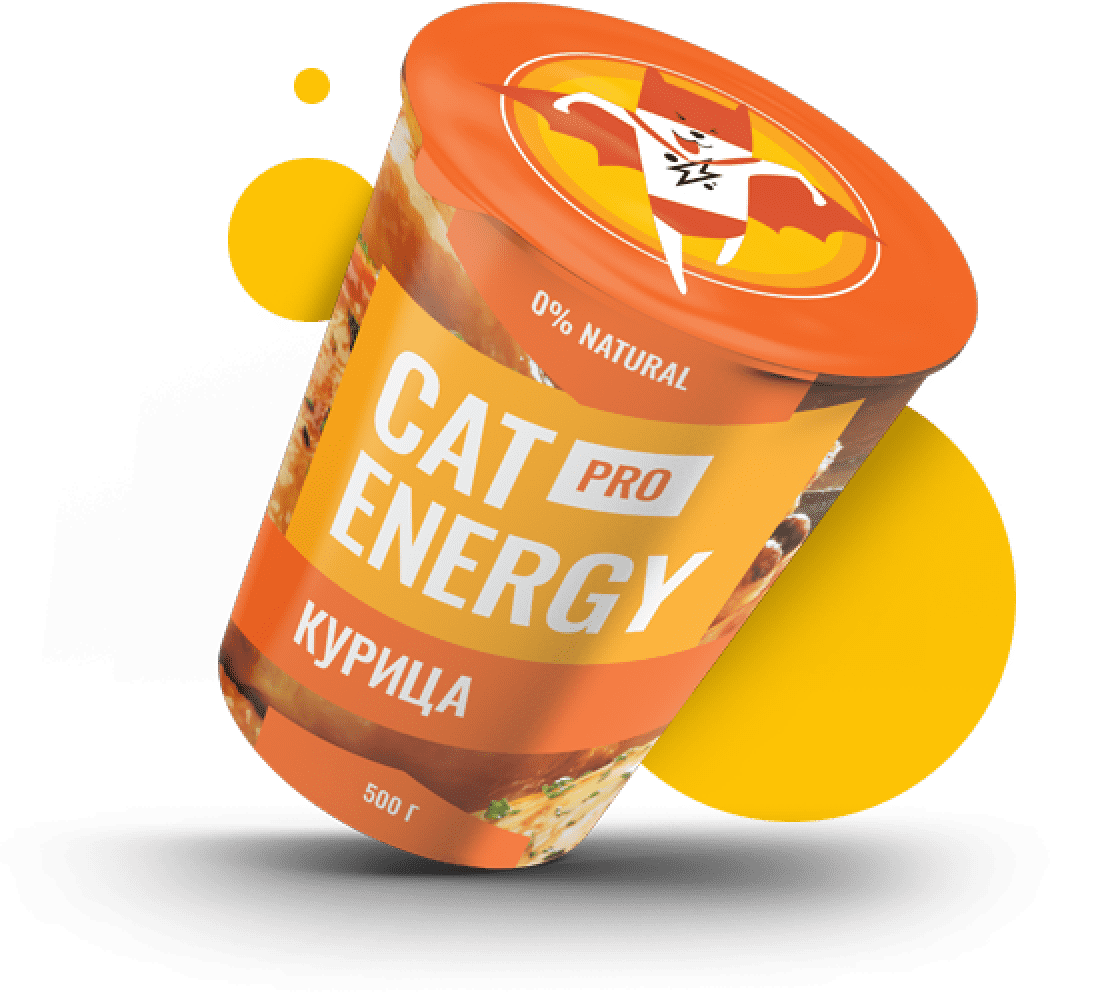
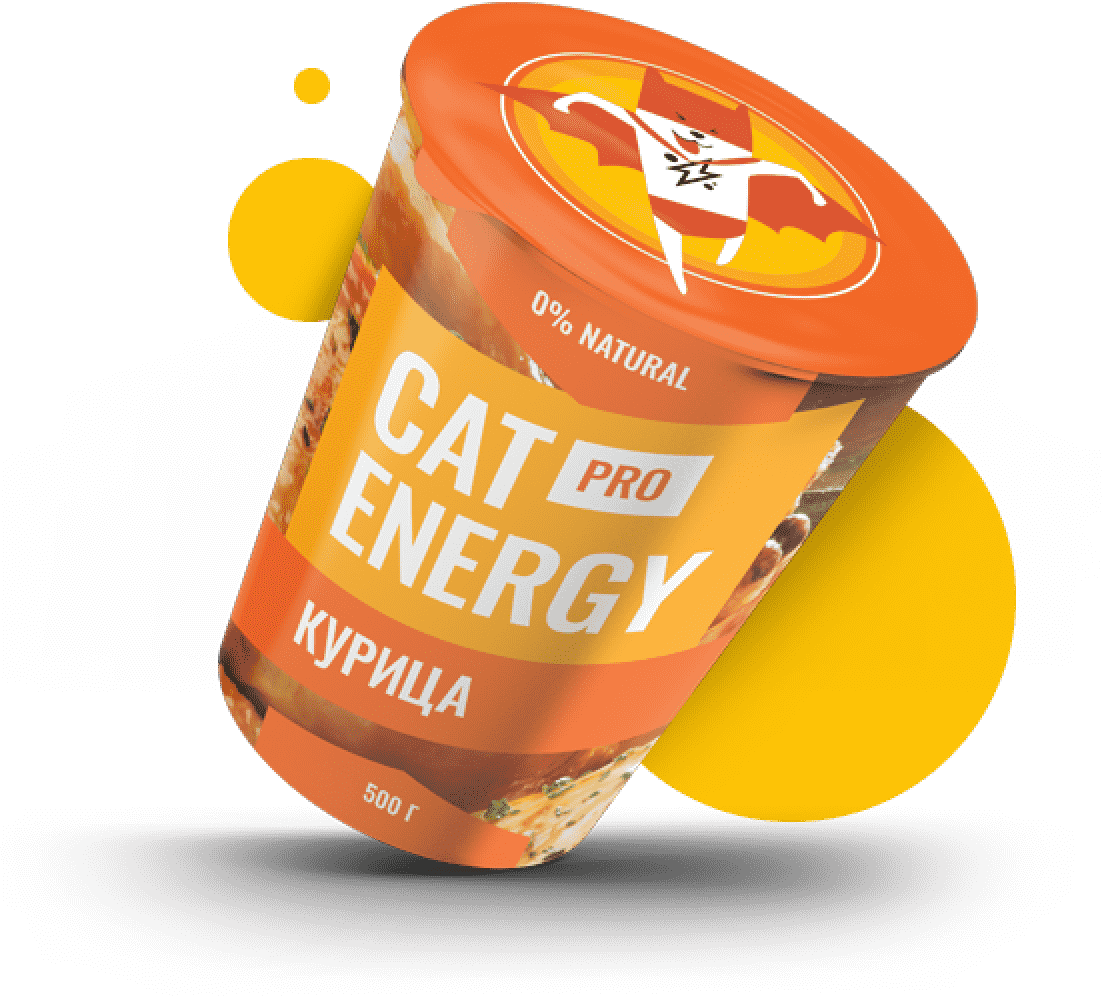
Оптимизация графики на главной странице

diff --git a/source/index.html b/source/index.html
@@ -20,8 +20,8 @@
       </a>
 
       <a class="page-header__logo-text logo" href="index.html">
-        <svg width="101" height="18" fill="none" xmlns="http://www.w3.org/2000/svg">
-          <path d="M1.26 16.54A6.86 6.86 0 010 12.24v-6.4C-.1 4.3.3 2.77 1.19 1.47 2.05.46 3.39 0 5.37 0 7.35 0 8.61.46 9.4 1.3a5.42 5.42 0 011.19 3.78v1.54H6.72V4.85a3.7 3.7 0 00-.24-1.54 1.16 1.16 0 00-1.1-.62c-.56 0-.95.16-1.11.54a4.85 4.85 0 00-.24 1.7v8.22c-.04.56.07 1.12.32 1.62.15.38.55.54 1.1.54.56 0 .87-.16 1.03-.54.18-.52.26-1.07.24-1.62v-1.84h3.87v1.54a5.77 5.77 0 01-1.19 3.84c-.79.93-2.13 1.39-4.03 1.39-1.9-.08-3.32-.54-4.1-1.54zM15.25.23h4.5l3.33 17.54h-3.64l-.63-3.7h-2.6l-.64 3.7h-3.72L15.25.23zm3.24 11.54l-.95-6.85-.94 6.85h1.9zM25.84 3.15h-2.68V.23h9.4v2.85h-2.69v14.69h-4.03V3.15zM39.75.23h6.96v1.85h-4.5v5.77h3.63v1.77H42.2v6.46h4.5v1.77h-7.03V.23h.08zM48.76.23h1.74l5.14 11.62V.23h2.05v17.54h-1.58l-5.21-12v12h-2.14V.23zM60.06.23h6.96v1.85h-4.5v5.77h3.63v1.77H62.5v6.46h4.5v1.77h-6.95V.23zM69.07.23h3.64c1.43-.1 2.85.28 4.03 1.08C77.6 2 78 3.23 78 4.85c0 2.23-.7 3.61-2.21 4.07l2.53 8.77h-2.45L73.5 9.46h-1.98v8.23H69V.23h.08zm3.48 7.54c.81.06 1.63-.15 2.3-.62.47-.38.7-1.15.7-2.3a4.85 4.85 0 00-.23-1.7c-.18-.39-.49-.71-.87-.92a3.69 3.69 0 00-1.74-.3h-1.1v5.76h.94v.08zM81.16 16.46a7.61 7.61 0 01-1.1-4.46V6.15c-.02-1.11.11-2.22.4-3.3.26-.81.78-1.51 1.5-2 .88-.51 1.9-.75 2.92-.7 1.66 0 2.84.39 3.55 1.23a5.77 5.77 0 011.11 3.85v.62h-2.37V5.3c0-.65-.05-1.29-.16-1.93-.06-.4-.3-.76-.63-1a2.5 2.5 0 00-1.5-.38 2.42 2.42 0 00-1.58.46 1.75 1.75 0 00-.63 1.23c-.1.69-.16 1.38-.16 2.08v6.54c-.06 1 .1 2 .47 2.92.32.62.95.85 1.9.85a1.96 1.96 0 001.9-.93c.41-.97.6-2.02.55-3.07v-1.23h-2.3V9.08h4.59v8.69h-1.58l-.24-2c-.2.67-.64 1.25-1.22 1.66-.6.4-1.3.6-2.02.57a4.05 4.05 0 01-3.4-1.54zM94.68 11.62L90.8.3h2.37l2.76 8.46L98.63.3H101l-3.87 11.3v6.16h-2.37v-6.15h-.08z" fill="#111"/>
+        <svg width="101" height="18">
+          <use xlink:href="sprite.svg#text-logo"></use>
         </svg>
       </a>
 
@@ -51,7 +51,11 @@
         <p class="promo__slogan">занялся собой? займись котом!</p>
 
         <picture>
-          <source media="(min-width: 1440px)" srcset="img/promo-img-desktop.png 1x, promo-img-desktop@2x.png 2x">
+          <source type="image/webp" media="(min-width: 1440px)" srcset="img/promo-img-desktop.webp 1x, img/promo-img-desktop@2x.webp 2x">
+          <source type="image/webp" media="(min-width: 768px)" srcset="img/promo-img-tablet.webp 1x, img/promo-img-tablet@2x.webp 2x">
+          <source type="image/webp" srcset="img/promo-img-mobile.webp 1x, img/promo-img-mobile@2x.webp 2x">
+
+          <source media="(min-width: 1440px)" srcset="img/promo-img-desktop.png 1x, img/promo-img-desktop@2x.png 2x">
           <source media="(min-width: 768px)" srcset="img/promo-img-tablet.png 1x, img/promo-img-tablet@2x.png 2x">
           <img class="promo__image" src="img/promo-img-mobile.png" srcset="img/promo-img-mobile@2x.png 2x" alt="Cat Energy с курицей" width="280" height="270">
         </picture>
@@ -65,23 +69,35 @@
 
       <section class="program program--margin-bottom program--margin-right">
         <div class="program__title-wrapper">
-          <div class="program__image-wrapper"><img class="program__slim" src="img/cat-slim.svg" width="36" height="50" alt=""></div>
+          <div class="program__image-wrapper">
+            <svg class="program__slim" width="36" height="50">
+              <use xlink:href="sprite.svg#cat-slim"></use>
+            </svg>
+          </div>
           <h3 class="program__title heading heading--h3">похудение</h3>
         </div>
 
         <p class="program__description">Ваш кот весит больше собаки и почти утратил способность лазить по деревьям? Пора на диету! Cat Energy Slim поможет вашему питомцу сбросить лишний вес.</p>
         <a class="program__link" href="catalog.html">каталог slim</a>
-        <svg class="program__svg" width="24" height="12" fill="none" xmlns="http://www.w3.org/2000/svg"><path stroke="#000" stroke-width="2" d="M0 6h18"/><path d="M24 6l-6.75 5.2V.8L24 6z" fill="#000"/></svg>
+        <svg class="program__svg" width="24" height="12">
+          <use xlink:href="sprite.svg#right-arrow"></use>
+        </svg>
       </section>
 
       <section class="program program--padding-right">
         <div class="program__title-wrapper">
-          <div class="program__image-wrapper"><img class="program__fat" src="img/cat-pro.svg" width="67" height="28" alt=""></div>
+          <div class="program__image-wrapper">
+            <svg class="program__fat" width="67" height="28">
+              <use xlink:href="sprite.svg#cat-pro"></use>
+            </svg>
+          </div>
           <h3 class="program__title heading heading--h3">набор массы</h3>
         </div>
         <p class="program__description">Заработать авторитет среди дворовых котов и даже собак? Серия Cat Energy Pro поможет вашему коту нарастить необходимые мышцы!</p>
         <a class="program__link" href="catalog.html">каталог pro</a>
-        <svg class="program__svg" width="24" height="12" fill="none" xmlns="http://www.w3.org/2000/svg"><path stroke="#000" stroke-width="2" d="M0 6h18"/><path d="M24 6l-6.75 5.2V.8L24 6z" fill="#000"/></svg>
+        <svg class="program__svg" width="24" height="12">
+          <use xlink:href="sprite.svg#right-arrow"></use>
+        </svg>
       </section>
     </section>
 
@@ -90,19 +106,35 @@
 
       <ul class="advantages__list">
         <li class="advantages__item advantages__item--first">
-          <div class="advantages__icon"><img src="img/icon-leaf.svg" width="30" height="32" alt=""></div>
+          <div class="advantages__icon">
+            <svg width="30" height="32">
+              <use xlink:href="sprite.svg#icon-leaf"></use>
+            </svg>
+          </div>
           <p class="advantages__desc">Функциональное питание<br> содержит только полезные питательные вещества.</p>
         </li>
         <li class="advantages__item advantages__item--second">
-          <div class="advantages__icon"><img src="img/icon-tub.svg" width="29" height="31" alt=""></div>
+          <div class="advantages__icon">
+            <svg width="29" height="31">
+              <use xlink:href="sprite.svg#icon-tube"></use>
+            </svg>
+          </div>
           <p class="advantages__desc">Выпускается в виде порошка, который нужно лишь залить кипятком и готово.</p>
         </li>
         <li class="advantages__item  advantages__item--third">
-          <div class="advantages__icon"><img src="img/icon-eat.svg" width="25" height="30" alt=""></div>
+          <div class="advantages__icon">
+            <svg width="25" height="30">
+              <use xlink:href="sprite.svg#icon-eat"></use>
+            </svg>
+          </div>
           <p class="advantages__desc">Замените один-два приема обычной еды на наше функциональное питание.</p>
         </li>
         <li class="advantages__item  advantages__item--fourth">
-          <div class="advantages__icon"><img src="img/icon-alarm.svg" width="32" height="33" alt=""></div>
+          <div class="advantages__icon">
+            <svg width="32" height="33">
+              <use xlink:href="sprite.svg#icon-alarm"></use>
+            </svg>
+          </div>
           <p class="advantages__desc">Уже через месяц наслаждайтесь изменениями к лучшему<br> вашего питомца!</p>
         </li>
       </ul>
@@ -137,12 +169,20 @@
         <div class="real-story__chronicle">
           <div class="real-story__start-wrapper">
             <picture>
+              <source type="image/webp" media="(min-width: 1440px)" srcset="img/before-tablet.webp 1x, img/before-tablet@2x.webp 2x">
+              <source type="image/webp" media="(min-width: 768px)" srcset="img/before-tablet.webp 1x, img/before-tablet@2x.webp 2x">
+              <source type="image/webp" srcset="img/before-mobile.webp 1x, img/before-mobile@2x.webp 2x">
+
               <source media="(min-width: 1440px)" srcset="img/before-tablet.png 1x, img/before-tablet@2x.png 2x">
               <source media="(min-width: 768px)" srcset="img/before-tablet.png 1x, img/before-tablet@2x.png 2x">
               <img class="real-story__img real-story__img--before" src="img/before-mobile.png" srcset="img/before-mobile@2x.png 2x" width="280" height="232" alt="Борис до похудения">
             </picture>
 
             <picture>
+              <source type="image/webp" media="(min-width: 1440px)" srcset="img/after-tablet.webp 1x, img/after-tablet@2x.webp 2x">
+              <source type="image/webp" media="(min-width: 768px)" srcset="img/after-tablet.webp 1x, img/after-tablet@2x.webp 2x">
+              <source type="image/webp" srcset="img/after-mobile.webp 1x, img/after-mobile@2x.webp 2x">
+
               <source media="(min-width: 1440px)" srcset="img/after-tablet.png 1x, img/after-tablet@2x.png 2x">
               <source media="(min-width: 768px)" srcset="img/after-tablet.png 1x, img/after-tablet@2x.png 2x">
               <img class="real-story__img real-story__img--after" src="img/after-mobile.png" srcset="img/after-mobile@2x.png 2x" width="280" height="232" alt="Борис после похудения">
@@ -173,8 +213,8 @@
     <div class="page-footer__bottom container">
       <div class="logo">
         <a class="logo__text" href="index.html">
-          <svg width="128" height="24" fill="none" xmlns="http://www.w3.org/2000/svg">
-            <path d="M1.6 22.05A9.5 9.5 0 010 16.31V7.79a9.63 9.63 0 011.5-5.84C2.6.62 4.3 0 6.81 0c2.5 0 4.1.62 5.1 1.74a7.49 7.49 0 011.51 5.03v2.05h-4.9V6.46c.03-.7-.07-1.4-.3-2.05a1.46 1.46 0 00-.59-.63 1.41 1.41 0 00-.82-.19c-.7 0-1.2.2-1.4.72-.23.73-.33 1.49-.3 2.25v10.98c-.05.74.08 1.48.4 2.15.2.52.7.72 1.4.72s1.1-.2 1.3-.72c.23-.7.33-1.42.3-2.15v-2.46h4.91v2.05a7.98 7.98 0 01-1.5 5.13c-1 1.23-2.7 1.84-5.1 1.84-2.41-.1-4.22-.72-5.22-2.05zM19.33.3h5.7l4.22 23.4h-4.61l-.8-4.93h-3.3l-.8 4.92h-4.72L19.33.31zm4.1 15.4l-1.2-9.14-1.2 9.13h2.4zM32.75 4.2h-3.4V.3h11.91v3.8h-3.4v19.6h-5.1V4.2zM50.38.3h8.81v2.47h-5.7v7.7h4.6v2.35h-4.6v8.62h5.7v2.35h-8.91V.31h.1zM61.8.3H64l6.51 15.5V.3h2.6v23.4h-2l-6.6-16v16H61.8V.3zM76.12.3h8.81v2.47h-5.7v7.7h4.6v2.35h-4.6v8.62h5.7v2.35h-8.81V.31zM87.54.3h4.6a7.87 7.87 0 015.11 1.44c1.1.93 1.6 2.57 1.6 4.72 0 2.98-.9 4.82-2.8 5.44l3.2 11.69h-3.1l-3-10.97h-2.5v10.97h-3.21V.31h.1zm4.4 10.06a4.3 4.3 0 002.9-.82c.6-.51.91-1.54.91-3.08a6.77 6.77 0 00-.3-2.25 2.58 2.58 0 00-1.1-1.24 4.47 4.47 0 00-2.2-.4h-1.4v7.69h1.2v.1zM102.86 21.95a10.57 10.57 0 01-1.4-5.95V8.2c-.03-1.48.14-2.96.5-4.4a5.2 5.2 0 011.9-2.67c1.12-.68 2.41-1 3.7-.92 2.11 0 3.61.5 4.52 1.64a7.98 7.98 0 011.4 5.12v.82h-3v-.71c0-.86-.07-1.72-.2-2.57a2.06 2.06 0 00-.8-1.33 3.04 3.04 0 00-1.91-.51 2.96 2.96 0 00-2 .61 2.3 2.3 0 00-.8 1.64c-.14.92-.2 1.85-.2 2.77v8.72a9.53 9.53 0 00.6 3.9c.4.82 1.2 1.13 2.4 1.13a2.37 2.37 0 002.4-1.23c.53-1.3.77-2.7.7-4.1v-1.65h-2.9V12.1h5.8v11.6h-2l-.3-2.67c-.26.89-.8 1.67-1.55 2.2-.74.55-1.64.81-2.55.77a4.9 4.9 0 01-4.3-2.05zM119.99 15.49L115.08.4h3l3.51 11.28 3.4-11.28H128l-4.9 15.08v8.2h-3.01v-8.2h-.1z" fill="#111"/>
+          <svg width="128" height="24">
+            <use xlink:href="sprite.svg#text-logo"></use>
           </svg>
         </a>
       </div>
@@ -185,25 +225,24 @@
         <ul class="social__list">
           <li class="social__item">
             <a class="social__link" href="blank.html">
-              <picture>
-                <source media="(min-width: 768px)" srcset="img/icon_vkontakte-tablet.svg">
-                <img class="social__img social__img--vkontakte" src="img/icon_vkontakte-mobile.svg" alt="Наш Вконтакте" width="23" height="16">
-              </picture>
+              <svg class="social__img social__img--vkontakte" width="23" height="16" aria-label="Наш Вконтакте">
+                <use xlink:href="sprite.svg#icon-vkontakte"></use>
+              </svg>
             </a>
           </li>
           <li class="social__item">
             <a class="social__link" href="blank.html">
-              <picture>
-                <source media="(min-width: 768px)" srcset="img/icon_instagram-tablet.svg">
-                <img class="social__img social__img--instagram" src="img/icon_instagram-mobile.svg" alt="Наш Инстаграм" width="16" height="16">
-              </picture>
+              <svg class="social__img social__img--instagram" width="16" height="16" aria-label="Наш Инстаграм">
+                <use xlink:href="sprite.svg#icon-instagram"></use>
+              </svg>
             </a>
           </li>
           <li class="social__item">
-            <picture>
-              <source media="(min-width: 768px)" srcset="img/icon_facebook-tablet.svg">
-              <img class="social__img social__img--facebook" src="img/icon_facebook-mobile.svg" alt="Наш Фейсбук" width="22" height="22">
-            </picture>
+            <a class="social__link" href="blank.html">
+              <svg class="social__img social__img--facebook" width="22" height="22" aria-label="Наш Фейсбук">
+                <use xlink:href="sprite.svg#icon-facebook"></use>
+              </svg>
+            </a>
           </li>
         </ul>
       </section>
@@ -212,8 +251,8 @@
         <h2 class="visually-hidden">Авторское право</h2>
 
         <a class="copyright__owner" href="https://htmlacademy.ru">HTML Academy</a>
-        <svg class="copyright__logo" width="27" height="34" fill="none" xmlns="http://www.w3.org/2000/svg">
-          <path d="M13.64.02L13.5 0 0 1.4v24.61L13.5 34 27 26.01V1.41L13.64 0zm11.6 25L13.5 31.96 1.77 25.02v-10.1l11.68 6.93.02 1.25-8.02-4.75v1.23l8.04 4.8.02 1.3-8.05-4.76v1.22l8.04 4.81 8.12-4.83V16.9l3.62-2.15v10.26zm0-11.57L22 15.33l-1.48.88-7.06-4.19-.01 1.23 6.04 3.57-.06.03-.13.07-.86.5-4.98-2.95-.01 1.22 3.93 2.33-.93.61-.02.01-2.97-1.74-.01 1.23 1.94 1.13-1.98 1.19L1.8 13.58l11.63-6.96 11.8 6.83zm0-1.22L13.43 5.3 1.77 12.22V2.99L13.5 1.76 25.23 3v9.24z" fill="#666"/>
+        <svg class="copyright__logo" width="27" height="34">
+          <use xlink:href="sprite.svg#html-academy"></use>
         </svg>
       </section>
     </div>

diff --git a/source/less/blocks/program.less b/source/less/blocks/program.less
@@ -84,6 +84,7 @@
 }
 
 .program__slim {
+  display: block;
   margin: -6px 0 0 0;
 }
 
@@ -104,7 +105,9 @@
 }
 
 .program__fat {
+  display: block;
   margin: 0 0 0 0;
+  position: absolute;
 }
 
 @media (min-width: @tablet-width) {
